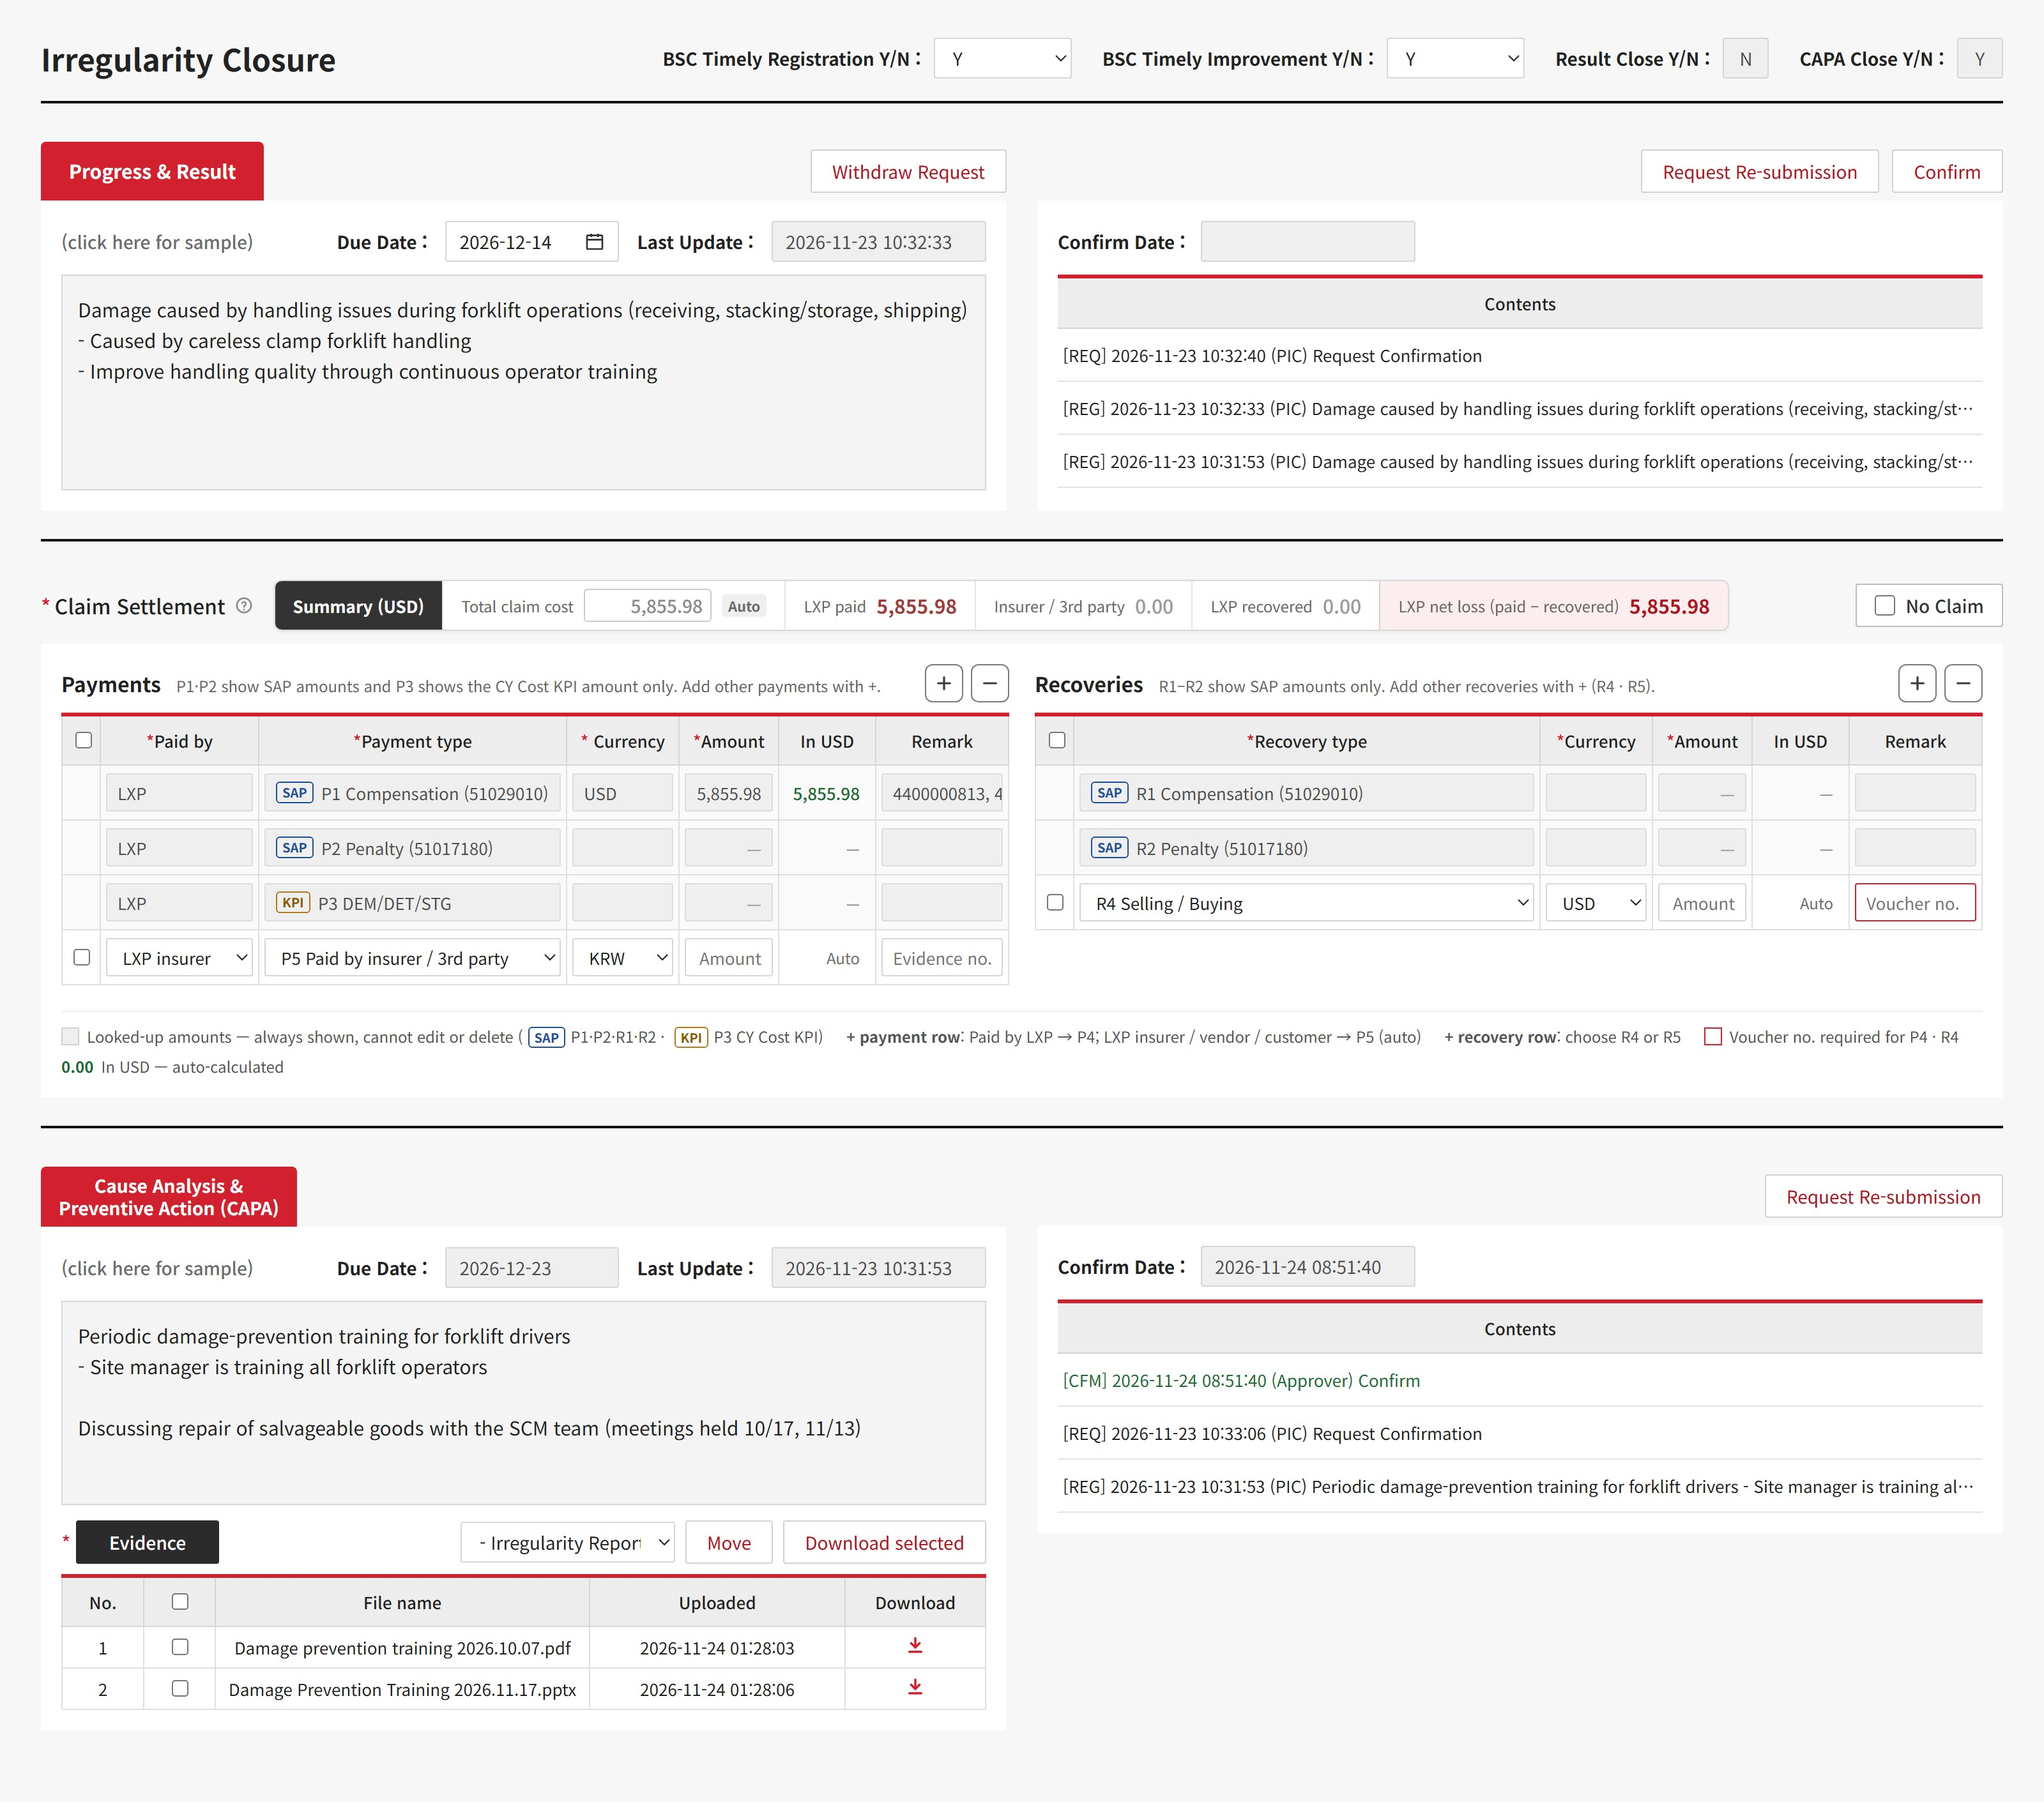
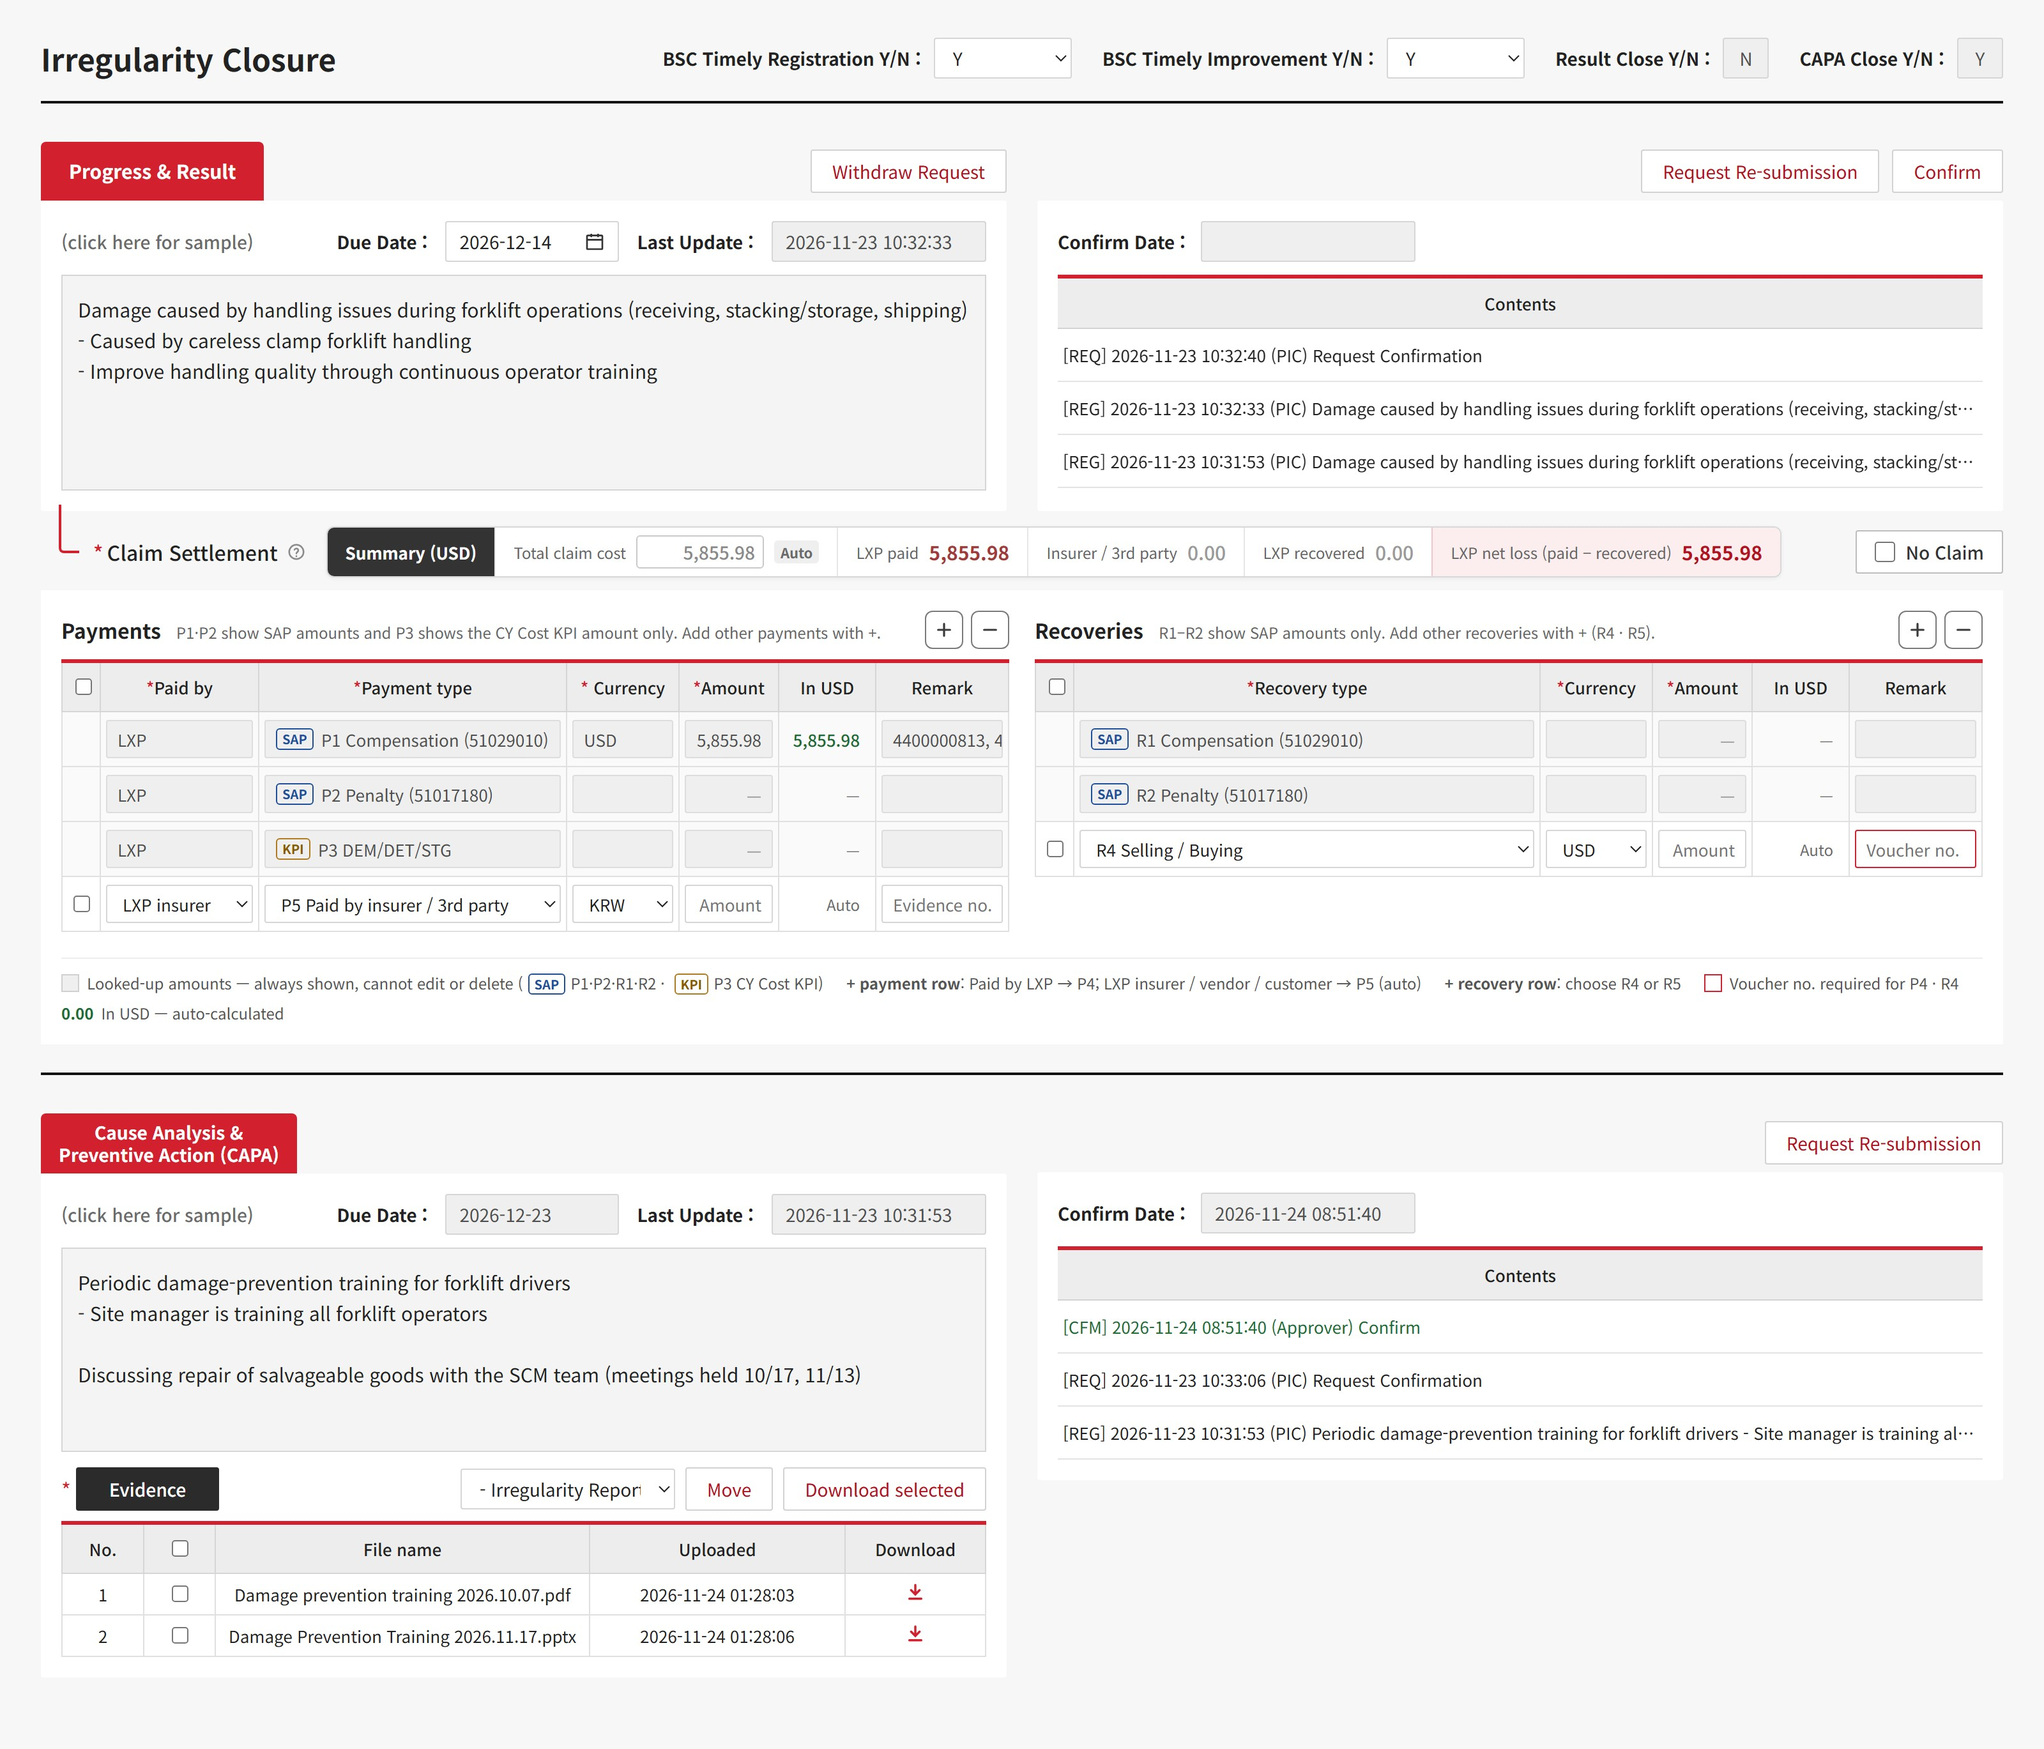
qms-claim-closure: Claim Settlement joined to Progress & Result (no divider, connector)

diff --git a/share/qms-claim-closure.html b/share/qms-claim-closure.html
@@ -55,6 +55,7 @@ a{color:#B3121F}a:hover{color:#7E0C16}
 .nc{display:inline-flex;align-items:center;gap:8px;height:34px;padding:0 14px;border:1px solid #BDBDBD;border-radius:2px;background:#fff;font-size:14px;font-weight:500;color:#333;cursor:pointer;white-space:nowrap}
 .nc input{width:16px;height:16px;margin:0;accent-color:#444}
 .nc.on{border-color:#555;background:#EDEDED}
+.tree{flex:none;width:16px;height:38px;margin:-36px 8px 0 14px;border-left:2px solid #D3202F;border-bottom:2px solid #D3202F;border-bottom-left-radius:4px;box-sizing:border-box}
 .cs-h{margin:0;font-size:16px;font-weight:500;color:#222;display:inline-flex;align-items:center;gap:3px;white-space:nowrap}
 .histbox{max-height:var(--hist-h,169px);overflow-y:auto;border-top:3px solid #D3202F}
 .histbox .hist{border-top:0}
@@ -107,7 +108,7 @@ a{color:#B3121F}a:hover{color:#7E0C16}
 </div>
 </header>
 
-<section aria-label="Progress and Result" style="padding: 30px 0 22px; border-bottom: 2px solid #111;">
+<section aria-label="Progress and Result" style="padding: 30px 0 0;">
 <div style="display: grid; grid-template-columns: repeat(auto-fit, minmax(min(560px, 100%), 1fr)); gap: 24px;">
 <div style="min-width: 0; display: flex; flex-direction: column;">
 <div style="display: flex; align-items: flex-end; justify-content: space-between; gap: 12px;">
@@ -151,10 +152,10 @@ a{color:#B3121F}a:hover{color:#7E0C16}
 </div>
 </section>
 
-<section aria-label="Claim Settlement" style="padding: 30px 0 22px; border-bottom: 2px solid #111;">
+<section aria-label="Claim Settlement" style="padding: 12px 0 22px; border-bottom: 2px solid #111;">
 <div style="display: flex; flex-wrap: wrap; align-items: center; gap: 12px 16px; margin-bottom: 10px;">
 <div style="display: flex; align-items: center; gap: 8px;">
-<h2 class="cs-h"><span class="req">*</span>Claim Settlement<svg width="15" height="15" viewBox="0 0 24 24" fill="none" stroke="#8A8A8A" stroke-width="2" stroke-linecap="round" aria-hidden="true" style="margin-left: 4px;"><circle cx="12" cy="12" r="9"></circle><path d="M9.6 9.3a2.5 2.5 0 0 1 4.8 1c0 1.7-2.4 2.1-2.4 3.7"></path><path d="M12 17.2v.3"></path></svg></h2>
+<h2 class="cs-h"><span class="tree" aria-hidden="true"></span><span class="req">*</span>Claim Settlement<svg width="15" height="15" viewBox="0 0 24 24" fill="none" stroke="#8A8A8A" stroke-width="2" stroke-linecap="round" aria-hidden="true" style="margin-left: 4px;"><circle cx="12" cy="12" r="9"></circle><path d="M9.6 9.3a2.5 2.5 0 0 1 4.8 1c0 1.7-2.4 2.1-2.4 3.7"></path><path d="M12 17.2v.3"></path></svg></h2>
 
 </div>
 <div role="group" aria-label="요약 (USD)" style="display: flex; flex-wrap: wrap; align-items: stretch; background: #fff; border: 1px solid #D8D8D8; border-radius: 6px; overflow: hidden; min-height: 36px; box-sizing: border-box; box-shadow: 0 1px 3px rgba(0,0,0,0.06);">
@@ -368,7 +369,7 @@ SCM팀 통한 수리 가능 제품 양품화 협의 (10/17, 11/13 협의 진행)
 </div>
 </header>
 
-<section aria-label="Progress and Result" style="padding: 30px 0 22px; border-bottom: 2px solid #111;">
+<section aria-label="Progress and Result" style="padding: 30px 0 0;">
 <div style="display: grid; grid-template-columns: repeat(auto-fit, minmax(min(560px, 100%), 1fr)); gap: 24px;">
 <div style="min-width: 0; display: flex; flex-direction: column;">
 <div style="display: flex; align-items: flex-end; justify-content: space-between; gap: 12px;">
@@ -412,10 +413,10 @@ SCM팀 통한 수리 가능 제품 양품화 협의 (10/17, 11/13 협의 진행)
 </div>
 </section>
 
-<section aria-label="Claim Settlement" style="padding: 30px 0 22px; border-bottom: 2px solid #111;">
+<section aria-label="Claim Settlement" style="padding: 12px 0 22px; border-bottom: 2px solid #111;">
 <div style="display: flex; flex-wrap: wrap; align-items: center; gap: 12px 16px; margin-bottom: 10px;">
 <div style="display: flex; align-items: center; gap: 8px;">
-<h2 class="cs-h"><span class="req">*</span>Claim Settlement<svg width="15" height="15" viewBox="0 0 24 24" fill="none" stroke="#8A8A8A" stroke-width="2" stroke-linecap="round" aria-hidden="true" style="margin-left: 4px;"><circle cx="12" cy="12" r="9"></circle><path d="M9.6 9.3a2.5 2.5 0 0 1 4.8 1c0 1.7-2.4 2.1-2.4 3.7"></path><path d="M12 17.2v.3"></path></svg></h2>
+<h2 class="cs-h"><span class="tree" aria-hidden="true"></span><span class="req">*</span>Claim Settlement<svg width="15" height="15" viewBox="0 0 24 24" fill="none" stroke="#8A8A8A" stroke-width="2" stroke-linecap="round" aria-hidden="true" style="margin-left: 4px;"><circle cx="12" cy="12" r="9"></circle><path d="M9.6 9.3a2.5 2.5 0 0 1 4.8 1c0 1.7-2.4 2.1-2.4 3.7"></path><path d="M12 17.2v.3"></path></svg></h2>
 
 </div>
 <div role="group" aria-label="Summary (USD)" style="display: flex; flex-wrap: wrap; align-items: stretch; background: #fff; border: 1px solid #D8D8D8; border-radius: 6px; overflow: hidden; min-height: 36px; box-sizing: border-box; box-shadow: 0 1px 3px rgba(0,0,0,0.06);">
@@ -655,7 +656,7 @@ Discussing repair of salvageable goods with the SCM team (meetings held 10/17, 1
 <section class="sec">
 <h2>2. 화면 배치</h2>
 <ul>
-<li>화면 전체: 세로 3단 — Progress &amp; Result → <b>Claim Settlement</b> → CAPA. 섹션 사이 검은 구분선 유지.</li>
+<li>화면 전체: 세로 3단 — Progress &amp; Result → <b>Claim Settlement</b> → CAPA. <b>Progress &amp; Result와 Claim Settlement는 한 세트</b>: 둘 사이 검은 구분선 없음, Claim Settlement 제목 앞에 빨간 └ 연결선. 검은 구분선은 Claim Settlement와 CAPA 사이에만.</li>
 <li>Progress &amp; Result, CAPA: 현행 <b>스플릿(Split screen)</b> 50:50 (왼쪽 입력, 오른쪽 이력) 그대로.</li>
 <li> Progress &amp; Result 오른쪽 이력(Contents): 머리글 + <b>3줄</b>이 보이는 높이로 고정, 넘치면 세로 스크롤 (머리글은 고정). 오른쪽 패널의 아래 끝은 왼쪽 패널과 맞춤.</li>
 <li>Claim Settlement 머리: 빨간 탭 대신 글자 제목 <b>* Claim Settlement ⓘ</b> (기존 Actual Loss Cost와 같은 모양) + 오른쪽에 요약 바 (검은 '요약 (USD)' 라벨 + 5칸) + 오른쪽 끝 No Claim. 요약 바는 아래 표 영역과 살짝 띄운 별도 카드.</li>

diff --git a/share/qms-claim-closure-en.html b/share/qms-claim-closure-en.html
@@ -55,6 +55,7 @@ a{color:#B3121F}a:hover{color:#7E0C16}
 .nc{display:inline-flex;align-items:center;gap:8px;height:34px;padding:0 14px;border:1px solid #BDBDBD;border-radius:2px;background:#fff;font-size:14px;font-weight:500;color:#333;cursor:pointer;white-space:nowrap}
 .nc input{width:16px;height:16px;margin:0;accent-color:#444}
 .nc.on{border-color:#555;background:#EDEDED}
+.tree{flex:none;width:16px;height:38px;margin:-36px 8px 0 14px;border-left:2px solid #D3202F;border-bottom:2px solid #D3202F;border-bottom-left-radius:4px;box-sizing:border-box}
 .cs-h{margin:0;font-size:16px;font-weight:500;color:#222;display:inline-flex;align-items:center;gap:3px;white-space:nowrap}
 .histbox{max-height:var(--hist-h,169px);overflow-y:auto;border-top:3px solid #D3202F}
 .histbox .hist{border-top:0}
@@ -107,7 +108,7 @@ a{color:#B3121F}a:hover{color:#7E0C16}
 </div>
 </header>
 
-<section aria-label="Progress and Result" style="padding: 30px 0 22px; border-bottom: 2px solid #111;">
+<section aria-label="Progress and Result" style="padding: 30px 0 0;">
 <div style="display: grid; grid-template-columns: repeat(auto-fit, minmax(min(560px, 100%), 1fr)); gap: 24px;">
 <div style="min-width: 0; display: flex; flex-direction: column;">
 <div style="display: flex; align-items: flex-end; justify-content: space-between; gap: 12px;">
@@ -151,10 +152,10 @@ a{color:#B3121F}a:hover{color:#7E0C16}
 </div>
 </section>
 
-<section aria-label="Claim Settlement" style="padding: 30px 0 22px; border-bottom: 2px solid #111;">
+<section aria-label="Claim Settlement" style="padding: 12px 0 22px; border-bottom: 2px solid #111;">
 <div style="display: flex; flex-wrap: wrap; align-items: center; gap: 12px 16px; margin-bottom: 10px;">
 <div style="display: flex; align-items: center; gap: 8px;">
-<h2 class="cs-h"><span class="req">*</span>Claim Settlement<svg width="15" height="15" viewBox="0 0 24 24" fill="none" stroke="#8A8A8A" stroke-width="2" stroke-linecap="round" aria-hidden="true" style="margin-left: 4px;"><circle cx="12" cy="12" r="9"></circle><path d="M9.6 9.3a2.5 2.5 0 0 1 4.8 1c0 1.7-2.4 2.1-2.4 3.7"></path><path d="M12 17.2v.3"></path></svg></h2>
+<h2 class="cs-h"><span class="tree" aria-hidden="true"></span><span class="req">*</span>Claim Settlement<svg width="15" height="15" viewBox="0 0 24 24" fill="none" stroke="#8A8A8A" stroke-width="2" stroke-linecap="round" aria-hidden="true" style="margin-left: 4px;"><circle cx="12" cy="12" r="9"></circle><path d="M9.6 9.3a2.5 2.5 0 0 1 4.8 1c0 1.7-2.4 2.1-2.4 3.7"></path><path d="M12 17.2v.3"></path></svg></h2>
 
 </div>
 <div role="group" aria-label="Summary (USD)" style="display: flex; flex-wrap: wrap; align-items: stretch; background: #fff; border: 1px solid #D8D8D8; border-radius: 6px; overflow: hidden; min-height: 36px; box-sizing: border-box; box-shadow: 0 1px 3px rgba(0,0,0,0.06);">
@@ -395,7 +396,7 @@ Discussing repair of salvageable goods with the SCM team (meetings held 10/17, 1
 <section class="sec">
 <h2>2. Layout</h2>
 <ul>
-<li>Whole screen: three stacked sections — Progress &amp; Result → <b>Claim Settlement</b> → CAPA. Keep the black dividers between sections.</li>
+<li>Whole screen: three stacked sections — Progress &amp; Result → <b>Claim Settlement</b> → CAPA. <b>Progress &amp; Result and Claim Settlement are one set</b>: no black divider between them, and a red └ connector before the Claim Settlement title. The black divider stays only between Claim Settlement and CAPA.</li>
 <li>Progress &amp; Result and CAPA: current <b>split screen</b> 50:50 (input left, history right), unchanged.</li>
 <li> History (Contents) on the right of Progress &amp; Result: fixed height showing the header + <b>3 rows</b>; longer lists scroll vertically (header stays). The bottom of the right panel lines up with the left panel.</li>
 <li>Claim Settlement header: instead of a red tab, the text title <b>* Claim Settlement ⓘ</b> (same look as the old Actual Loss Cost label) + the summary bar to its right (black 'Summary (USD)' label + 5 cells) + No Claim at the far right. The summary bar is a separate card with a small gap above the tables.</li>
